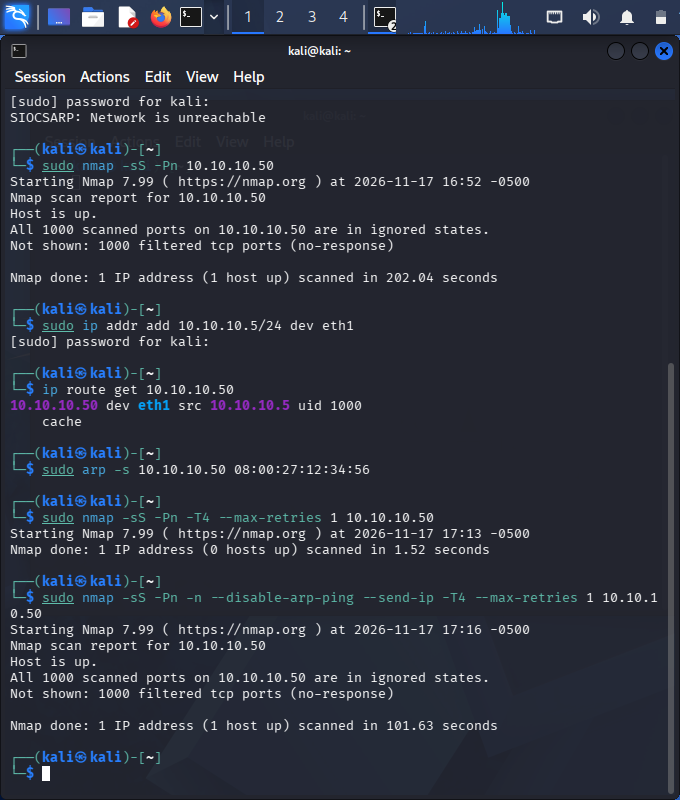
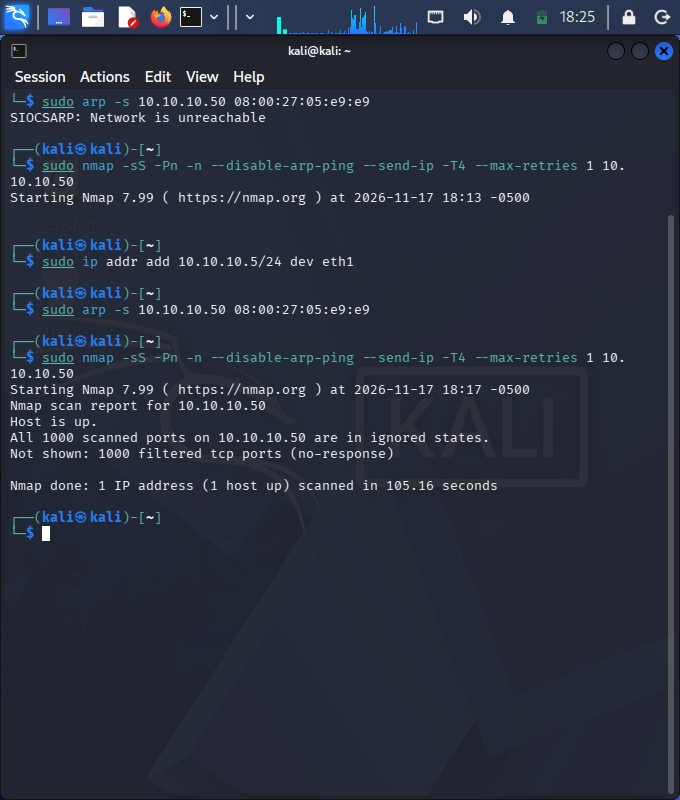
Verified detection: Suricata ET SCAN alerts from Nmap SYN scan

diff --git a/README.md b/README.md
@@ -2,7 +2,7 @@
 
 A home lab where I built an out-of-band network sensor that passively watches traffic on an isolated network segment, then generated scan traffic from an attacker VM to test detection.
 
-> **Status:** Sensor built, Suricata running with the Emerging Threats ruleset (53,000+ rules enabled), Zeek running on the sniffing interface, and SYN scans generated from Kali. Capturing alerts from the scan is in progress; see [Verification](#6-verification-in-progress).
+> **Result:** The passive sensor detected an Nmap SYN scan from the attacker VM. Suricata (Emerging Threats ruleset, 53,000+ rules enabled) raised `ET SCAN` alerts for probes to MySQL, Oracle, MSSQL, PostgreSQL, and VNC ports. See [Verification](#6-verification).
 
 ## Skills demonstrated
 
@@ -64,7 +64,7 @@ Restarted Suricata and deployed Zeek; both engines running:
 ![Suricata restarted, Zeek running](images/07-zeek-running.png)
 
 ### 5. Attack simulation
-Gave Kali's lab interface an address (`10.10.10.5/24`), added a static ARP entry for a target, and ran a SYN scan of the top 1,000 ports:
+Gave Kali's lab interface an address (`10.10.10.5/24`), mapped the target IP `10.10.10.50` to the sensor's sniffing-interface MAC with a static ARP entry, and ran a SYN scan of the top 1,000 ports. The sensor has no IP, so it silently drops the probes (nothing replies, hence "filtered"), but its capture engines see every packet:
 
 ```bash
 sudo nmap -sS -Pn -n --disable-arp-ping --send-ip -T4 --max-retries 1 10.10.10.50
@@ -72,16 +72,24 @@ sudo nmap -sS -Pn -n --disable-arp-ping --send-ip -T4 --max-retries 1 10.10.10.5
 
 ![Nmap SYN scan from Kali](images/08-nmap-syn-scan.png)
 
-### 6. Verification (in progress)
-Zeek on the sensor logs broadcast and multicast traffic from Kali's lab interface, confirming both VMs share the monitored segment. The unicast scan packets are not yet reaching the sensor's capture; next step is addressing the scan to the sensor's MAC so the hypervisor delivers it to the sniffing interface.
+### 6. Verification
+Suricata detected the scan within seconds. `fast.log` shows Emerging Threats `ET SCAN` alerts for SYN probes from `10.10.10.5` to commonly targeted database and remote-access ports:
+
+| Signature ID | Alert | Port |
+|---|---|---|
+| 2010937 | ET SCAN Suspicious inbound to mySQL port 3306 | 3306 |
+| 2010936 | ET SCAN Suspicious inbound to Oracle SQL port 1521 | 1521 |
+| 2010935 | ET SCAN Suspicious inbound to MSSQL port 1433 | 1433 |
+| 2002910 | ET SCAN Potential VNC Scan 5800-5820 | 5801 |
+| 2010939 | ET SCAN Suspicious inbound to PostgreSQL port 5432 | 5432 |
+
+![Suricata fast.log with ET SCAN alerts](images/10-suricata-scan-alerts.png)
 
 ```bash
-# On the sensor: scan alerts and Zeek connection log
 sudo tail -n 20 /var/log/suricata/fast.log
-sudo cat /opt/zeek/logs/current/conn.log | /opt/zeek/bin/zeek-cut ts id.orig_h id.resp_h id.resp_p conn_state | tail -n 20
 ```
 
-<!-- TODO: add screenshots of fast.log scan alerts and Zeek conn.log here once captured -->
+<!-- TODO: add Zeek conn.log screenshot (S0 connection states from the scan) -->
 
 ## Troubleshooting and lessons learned
 
@@ -103,11 +111,14 @@ sudo cat /opt/zeek/logs/current/conn.log | /opt/zeek/bin/zeek-cut ts id.orig_h i
 
 - **First scan never reached the lab network.** Kali's lab interface (`eth1`) had no IPv4 address, so the route to the target went out the NAT interface instead. Assigned `10.10.10.5/24` to `eth1` and confirmed with `ip route get`.
 - **Nmap ignored the static ARP entry.** On a local subnet Nmap does its own ARP lookup, got no reply, and marked the host down without scanning. `--disable-arp-ping --send-ip` makes it use the kernel's routing and ARP table instead.
+- **The sensor saw broadcasts but not the scan.** Zeek logged Kali's IPv6 neighbor discovery and DHCP broadcasts, so both VMs were on the same segment, but none of the unicast SYN probes. The scan was addressed to a MAC that didn't exist on the network, and the hypervisor's virtual switch didn't deliver those frames to the sensor. Mapping the target IP to the sensor's own MAC fixed it; with no IP on the sniffing interface the sensor still never responds. On a physical network the equivalent fix is a SPAN or TAP feeding the sensor a copy of all traffic.
+- **Settings don't survive a reboot.** After restarting the VMs, Kali's lab IP and the sensor's promiscuous flag were gone and Zeek needed `zeekctl deploy` again. Making these persistent (Netplan on Kali/sensor, `zeekctl cron` or a systemd unit for Zeek) is on the next-steps list.
 - **`sudo` and redirects.** `sudo cmd < file` fails on root-only files because the shell opens the file before `sudo` runs; `sudo cat file | cmd` works.
 - **Pasting long repository URLs into the VM console broke them.** I stored the URLs in shell variables first, then used the variables in the install commands.
 
 ## Next steps
 
-- Capture Suricata alerts and Zeek logs from a live scan (above)
+- Add Zeek `conn.log` evidence of the scan
+- Make interface settings and Zeek startup persistent across reboots
 - Write a custom Suricata rule and trigger it
 - Forward logs to a SIEM (e.g. Splunk Free or Elastic) and build a simple dashboard
